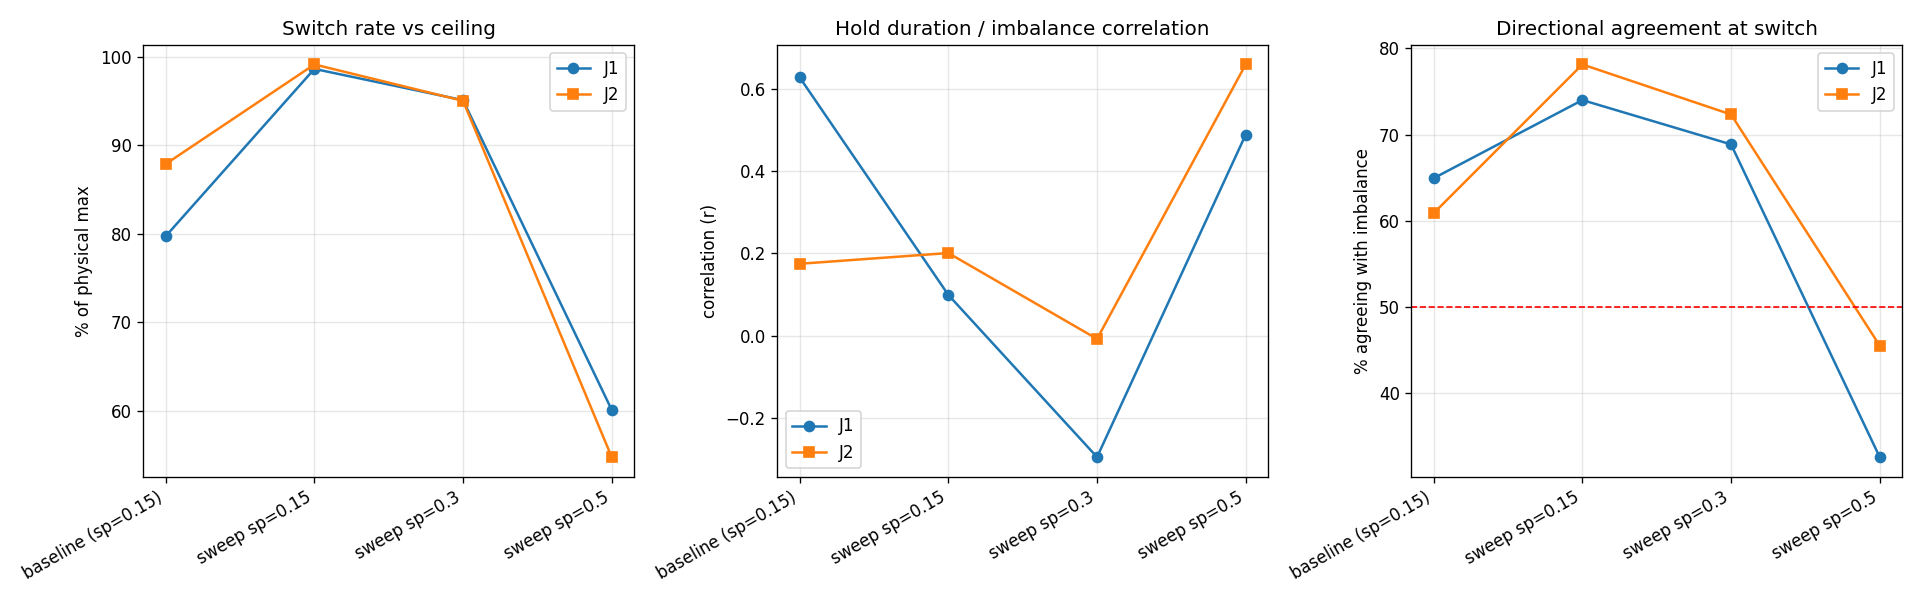
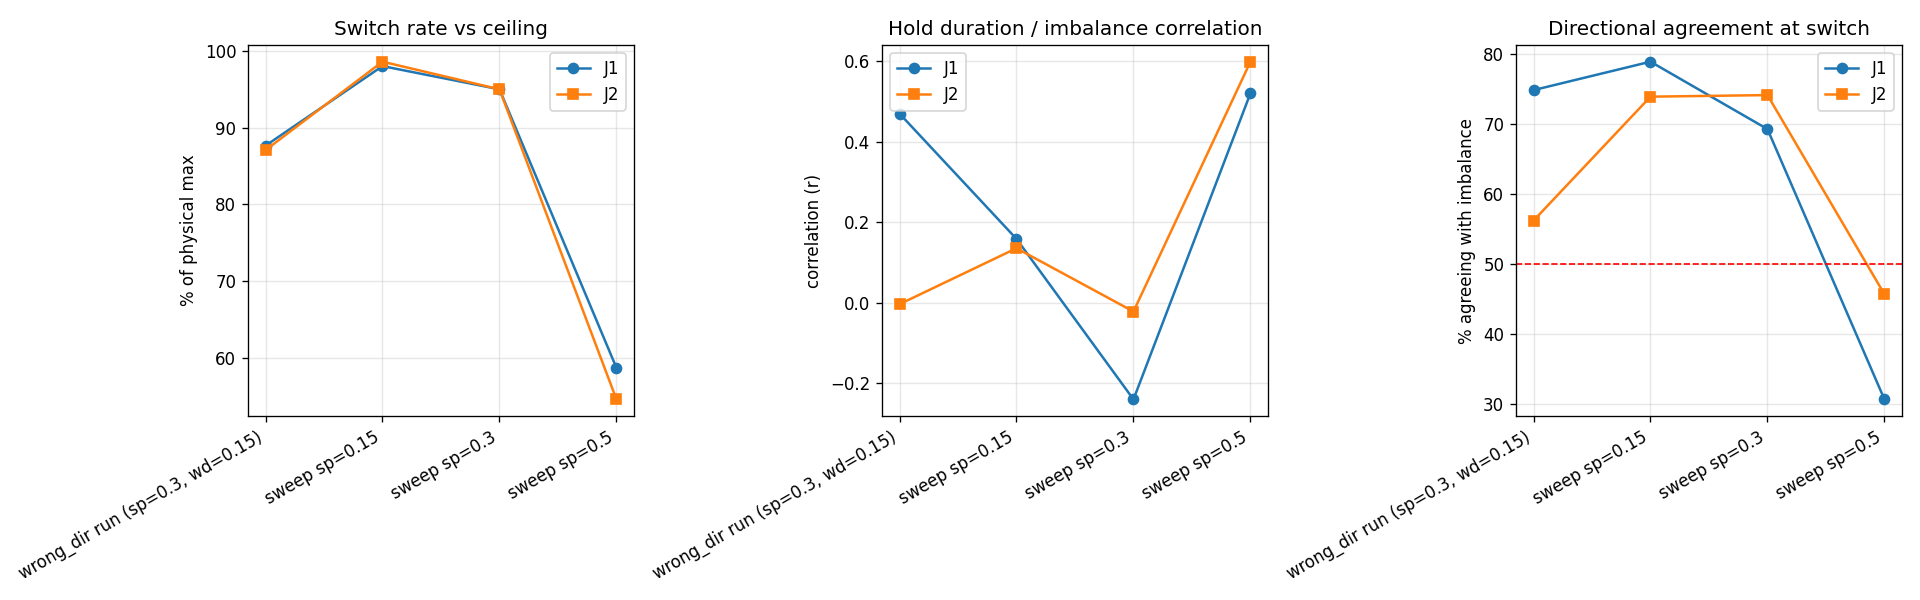
ADD

diff --git a/PPO_SUMO/test_diagnostic.py b/PPO_SUMO/test_diagnostic.py
@@ -23,12 +23,14 @@ models/ containing ppo_sumo_2junction.zip + vec_normalize_sumo.pkl.
 """
 
 import os
+import sys
 import numpy as np
 import matplotlib.pyplot as plt
 from stable_baselines3 import PPO
 from stable_baselines3.common.vec_env import VecNormalize
 from stable_baselines3.common.env_util import make_vec_env
 
+sys.path.append(os.path.join(os.path.dirname(__file__), "..", "common"))
 from env import SumoTrafficEnv2J
 
 SCRIPT_DIR  = os.path.dirname(os.path.abspath(__file__))

diff --git a/PPO_SUMO/train.py b/PPO_SUMO/train.py
@@ -10,12 +10,14 @@ a fallback/comparison point.
 """
 
 import os
+import sys
 from stable_baselines3 import PPO
 from stable_baselines3.common.env_util import make_vec_env
 from stable_baselines3.common.vec_env import VecNormalize
 from stable_baselines3.common.callbacks import EvalCallback, BaseCallback, CallbackList
 from stable_baselines3.common.utils import get_linear_fn
 
+sys.path.append(os.path.join(os.path.dirname(__file__), "..", "common"))
 from env import SumoTrafficEnv2J
 
 